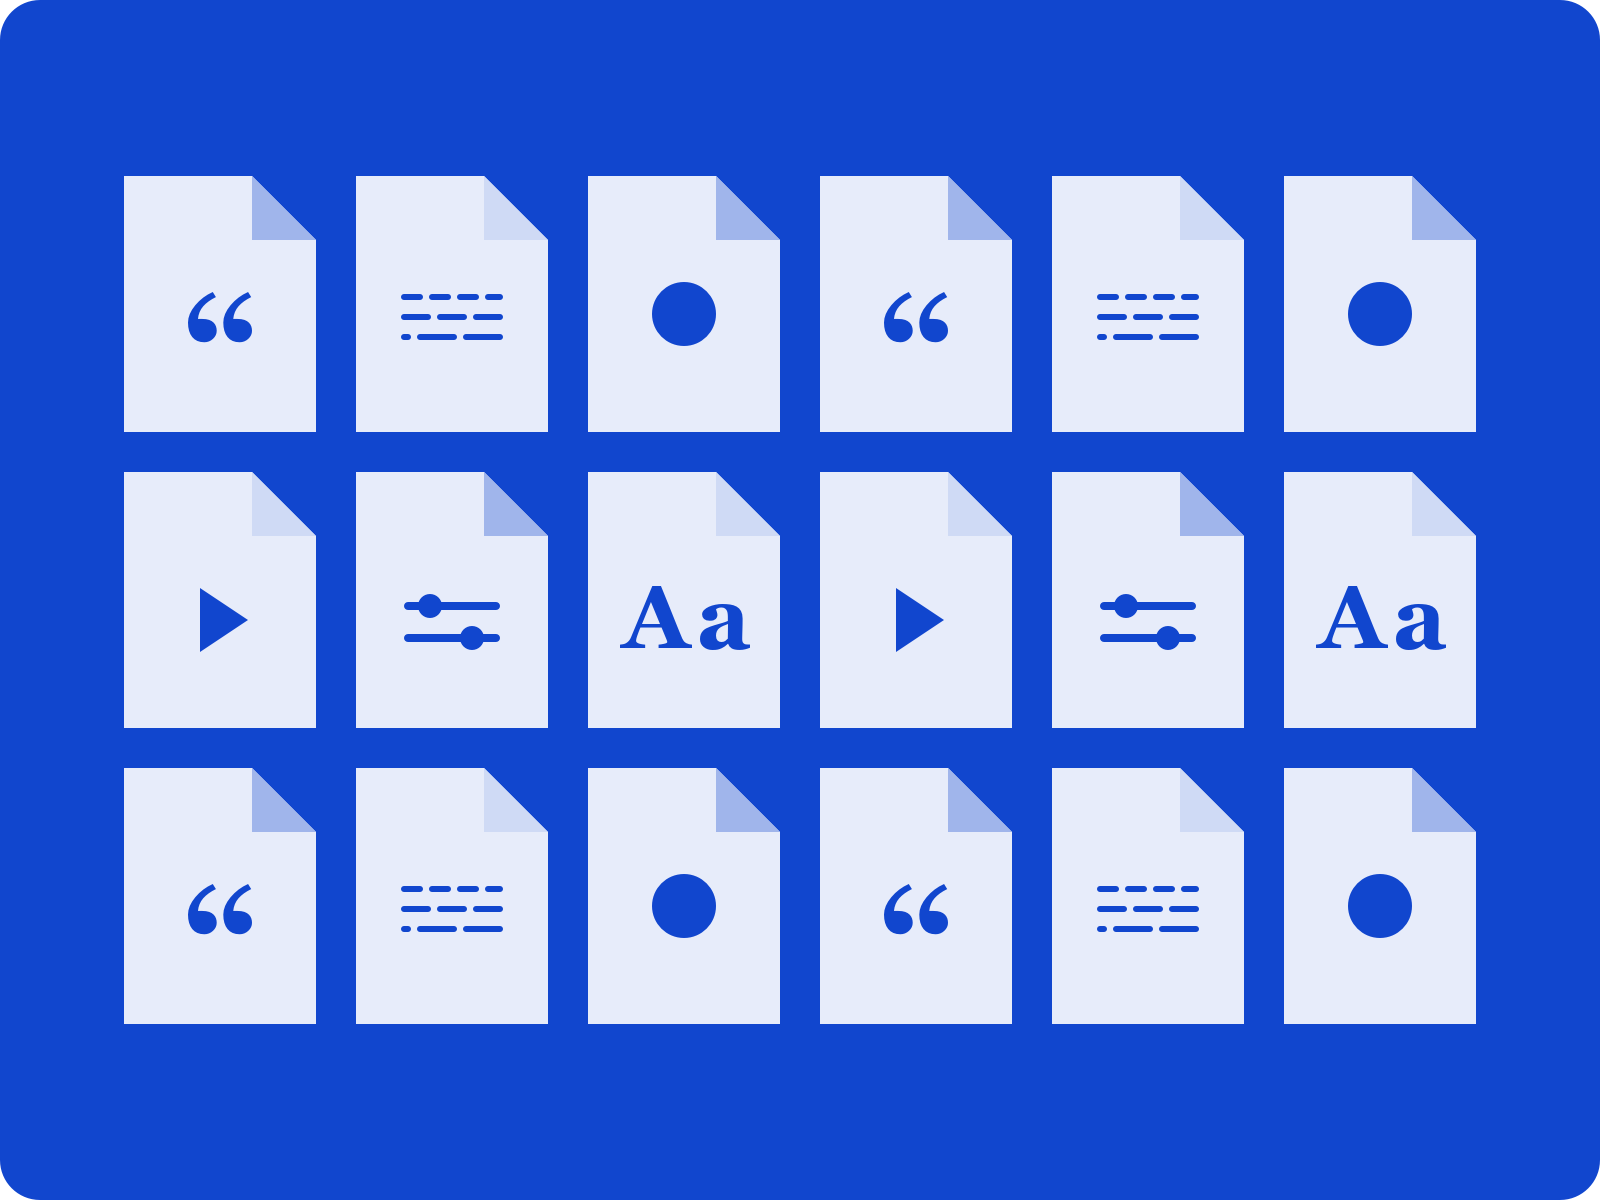
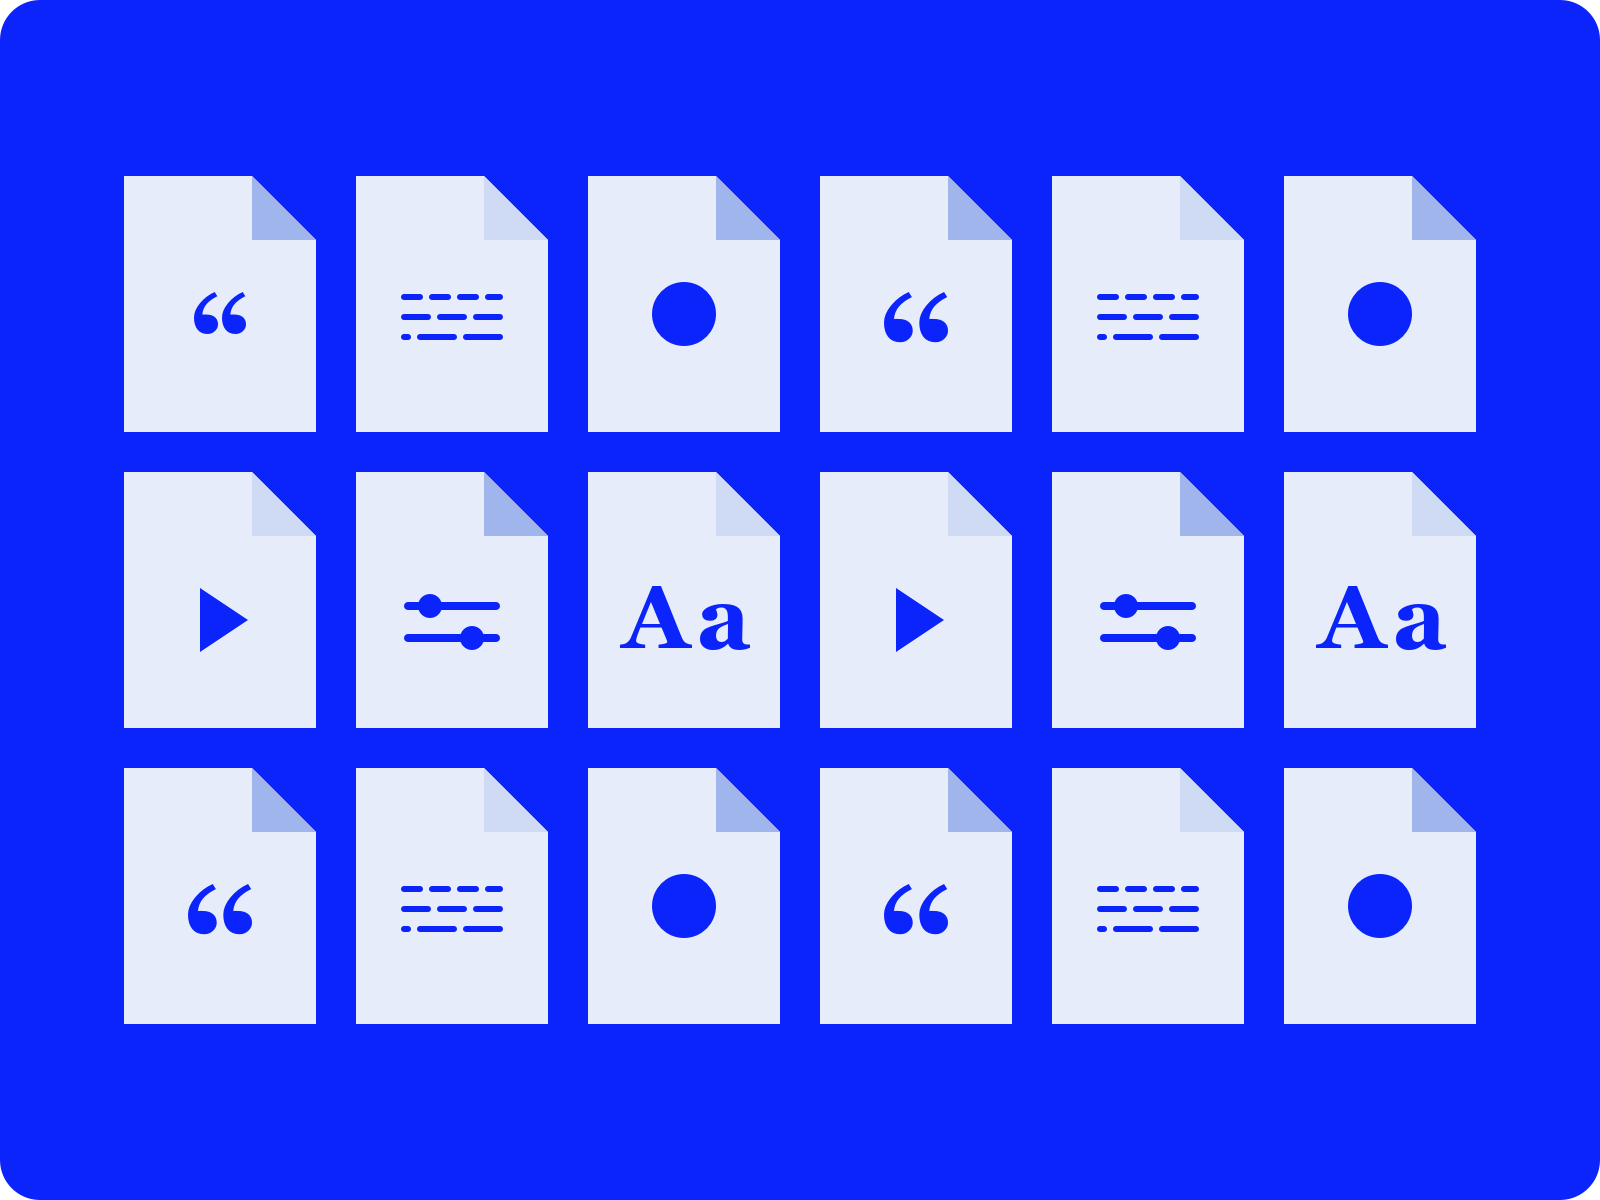
Update primary color, homepage text, code styling.

diff --git a/src/templates/index-page.js b/src/templates/index-page.js
@@ -59,7 +59,7 @@ const Small = styled.p`
 `
 
 const Section = styled.section`
-  margin: 5rem 0;
+  margin: 7rem 0;
   ${phone(css`
     margin: 1.5rem 0;
   `)}
@@ -84,7 +84,7 @@ export const IndexPageTemplate = ({
         <HeaderImage src={headerImage} alt="" />
       </div>
       <Centered>
-        <Small>Trusted by</Small>
+        <Small>My work can be found on</Small>
       </Centered>
       <Centered>
         <Icon src={amazon} />
@@ -96,8 +96,8 @@ export const IndexPageTemplate = ({
     <Section>
       <LeadH2>Writing</LeadH2>
       <LeadParagraph>
-        Build bridges, not walls. Sharing openly my explorations in designing
-        and coding user experiences.
+        Useful tips, insights, and knowledge from my experience in building user
+        experiences.
       </LeadParagraph>
       <CardGallery>
         {posts.map(post => (
@@ -174,7 +174,7 @@ export const pageQuery = graphql`
     allMarkdownRemark(
       sort: { order: DESC, fields: [frontmatter___date] }
       limit: 4
-      filter: { frontmatter: {templateKey: {in: "blog-post"}}}
+      filter: { frontmatter: { templateKey: { in: "blog-post" } } }
     ) {
       edges {
         node {

diff --git a/src/components/GlobalStyle.js b/src/components/GlobalStyle.js
@@ -3,9 +3,9 @@ import { mobile, phone } from '../utils/media'
 
 export default createGlobalStyle`
   :root {
-    --color-primary: rgba(17, 70, 206, 1.00);
+    --color-primary: rgba(11, 36, 251, 1.00);
     --color-background: rgba(255, 255, 255, 1.00);
-    --color-neutral: rgba(0, 0, 0, 1.00);
+    --color-neutral: rgba(35, 35, 35, 1.00);
     --color-neutral-light: rgba(200, 200, 200, 1.00);
     --color-neutral-xlight: rgba(240, 240, 240, 1.00);
 
@@ -24,10 +24,10 @@ export default createGlobalStyle`
     line-height: 1.7
   }
 
-::selection {
-  background: var(--color-primary);
-  color: var(--color-background);
-}
+  ::selection {
+    background: var(--color-primary);
+    color: var(--color-background);
+  }
 
   h1, h2, h3, h4, h5, h6 {
     color: var(--color-neutral);
@@ -67,6 +67,11 @@ export default createGlobalStyle`
     ${phone(css`
       font-size: 26px;
     `)}
+  }
+
+  pre {
+    border-radius: 5px;
+    margin: 2rem 0 !important;
   }
 
   label {

diff --git a/src/components/Navigation.js b/src/components/Navigation.js
@@ -13,7 +13,7 @@ const Nav = styled.nav`
 const NavContainer = styled.div`
   display: flex;
   justify-content: space-between;
-  min-height: 3.25rem;
+  min-height: 3.5rem;
   max-width: 960px;
   margin: 0 auto;
 
@@ -85,8 +85,8 @@ const NavItems = styled.div`
   `)}
 
   > * {
-    padding: .75rem 2rem;
-    line-height: 1.5
+    padding: 0.75rem 2rem;
+    line-height: 2.5;
     display: flex;
     align-items: flex-end;
     justify-content: center;

diff --git a/gatsby-config.js b/gatsby-config.js
@@ -55,6 +55,13 @@ module.exports = {
               destinationDir: 'static',
             },
           },
+          {
+            resolve: `gatsby-remark-prismjs`,
+            options: {
+              showLineNumbers: false,
+              noInlineHighlight: true,
+            },
+          },
         ],
       },
     },

diff --git a/src/components/Layout.js b/src/components/Layout.js
@@ -8,6 +8,8 @@ import Footer from '../components/Footer'
 import GlobalStyle from '../components/GlobalStyle'
 import { mobile } from '../utils/media'
 
+import 'prismjs/themes/prism-tomorrow.css'
+
 const Container = styled.div`
   max-width: 960px;
   margin: 0 auto;

diff --git a/src/pages/blog/2019-03-11-quick-review-of-js-destructuring.md b/src/pages/blog/2019-03-11-quick-review-of-js-destructuring.md
@@ -8,7 +8,6 @@ description: >-
 tags:
   - JavaScript
   - ES2015
-  - ''
 ---
 ![JavaScript Destructuring](/img/destructuring.png)
 
@@ -18,7 +17,7 @@ JavaScript destructuring allows you to quickly unpack values from JavaScript pro
 
 In this first example, let's extract some simple properties from a JS object. Borrowing an example from my real-life, let's say we're building a wedding RSVP app. In the example below, we'll extract the id and RSVP status from the guest invitation.
 
-```
+```javascript
 var invite = {
   id: 1,
   name: {
@@ -34,7 +33,7 @@ var { id, rsvpStatus } = invite
 
 This is synonymous with the longer dot notation.
 
-```
+```javascript
 var id = invite.id
 var rsvpStatus = invite.rsvpStatus
 ```
@@ -43,7 +42,7 @@ var rsvpStatus = invite.rsvpStatus
 
 If we want to access nested objects, we can do that by simply matching the structure of the object.
 
-```
+```javascript
 var invite = {
   id: 1,
   name: {
@@ -62,7 +61,7 @@ If you'd like to give the newly declared variable a different name than that whi
 
 I often forget the order for renaming an object with destructuring. Do I place the property name before the new variable name? Or vice versa? To remember this, I think of it as a mini-function, with the original name as the input on the left of the colon and the desired name as the output on the right.
 
-```
+```javascript
 var invite = {
   id: 1,
   name: {
@@ -78,7 +77,7 @@ var { rsvpStatus: status } = invite
 
 You can do this for nested objects as well.
 
-```
+```javascript
 var invite = {
   id: 1,
   name: {
@@ -96,7 +95,7 @@ var { name: { givenName: firstName, surname: lastName } = invite
 
 Another helpful feature of destructuring is the ability to provide default values.  To provide a default value, simple provide the default after an equals sign.
 
-```
+```javascript
 var invite = {
   id: 1,
   name: {
@@ -113,7 +112,7 @@ var { rsvpStatus = 'pending', foodPreference = 'chicken' } = invite
 
 This is especially helpful when you have a function which accepts an object as a parameter.
 
-```
+```javascript
 function createRSVP({ name, rsvpStatus = 'pending' }) {
   ...
 }
@@ -124,7 +123,7 @@ function createRSVP({ name, rsvpStatus = 'pending' }) {
 
 Yep, you guessed it. You can of course provide a default and rename the property at the same time.
 
-```
+```javascript
 var invite = {
   id: 1,
   name: {
@@ -141,7 +140,7 @@ var { rsvpStatus: status = 'pending' } = invite
 
 Array destructuring allows you to unpack objects from an array based on their positioning. I find this to be less common. One particularly useful use case though is combining destructuring with the `split` function on a string. Take the following example where we might be gathering data from a CSV input source.
 
-```
+```javascript
 // Example CSV Data
 // ID,Name,Status
 var csv = [

diff --git a/src/pages/index.md b/src/pages/index.md
@@ -1,9 +1,9 @@
 ---
 templateKey: 'index-page'
-title: 'Strategy-first frontend development'
+title: "I build tasty websites."
 image: /img/home-jumbotron.jpg
-heading: Strategy-first frontend development
-subheading: A tailored, strategically-driven website will always stand out. I create, design, and talk about crafting responsive, user-friendly, and standards compliant websites with the latest in technology.
+heading: "I build tasty websites."
+subheading: I'm Zack Hall. I'm a freelance front-end developer. I create, design, and talk about crafting pixel-perfect, snappy, and user-friendly websites.
 description: >-
   Kaldi is the ultimate spot for coffee lovers who want to learn about their
   java’s origin and support the farmers that grew it. We take coffee production,
